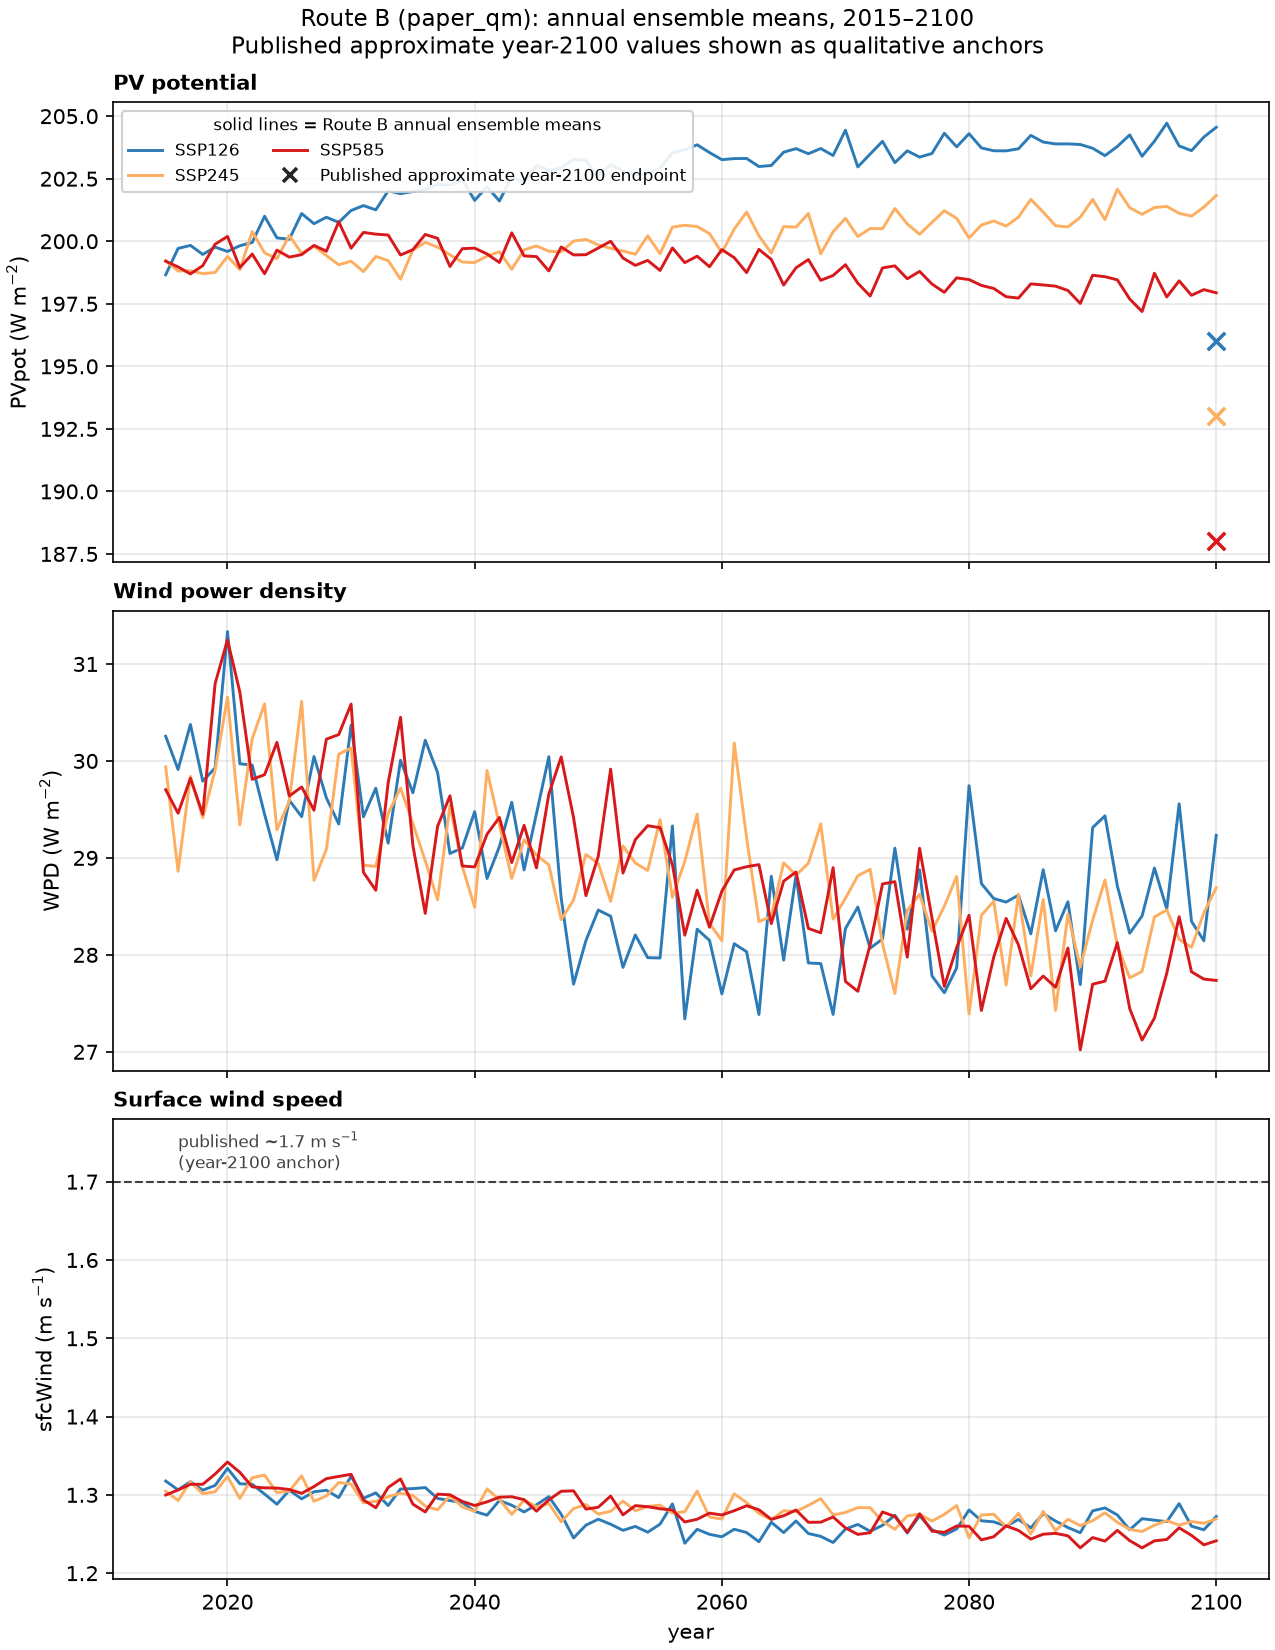
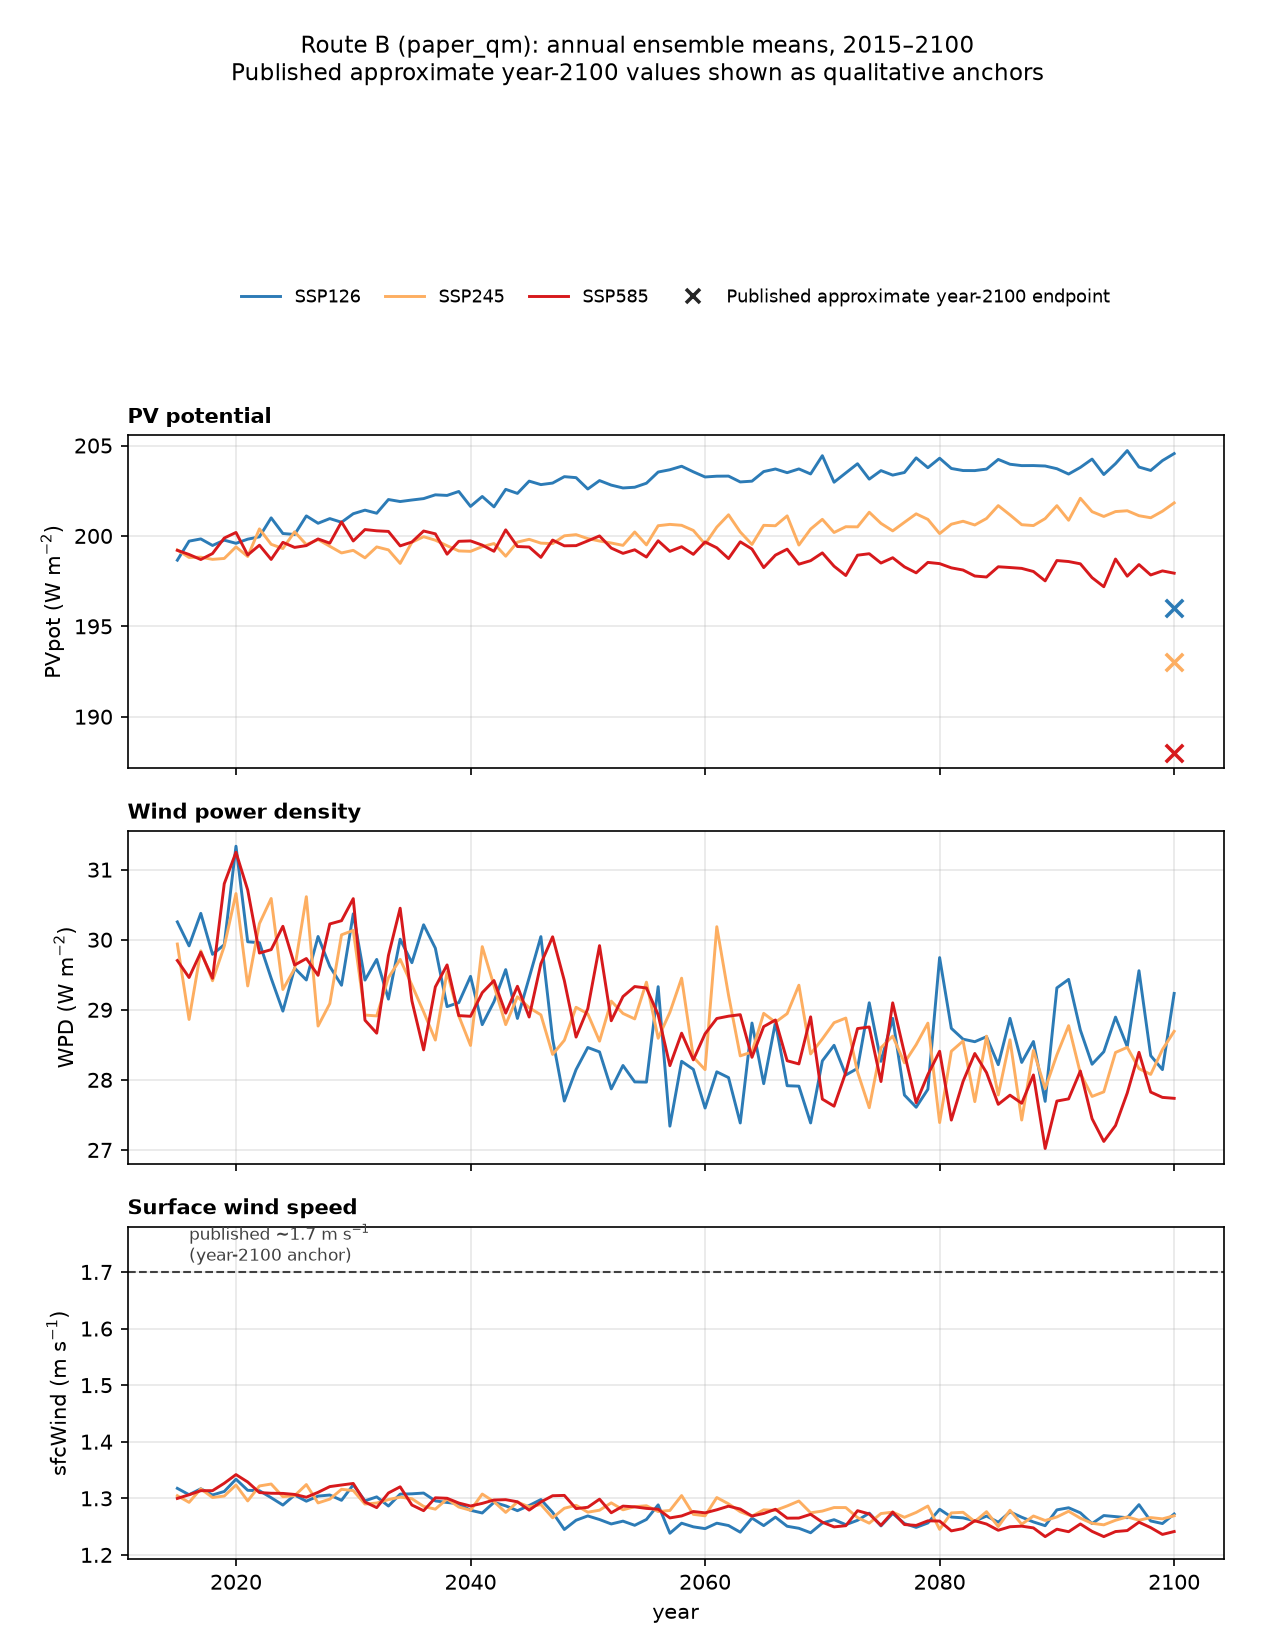
Move reproduction figure legend outside plot

diff --git a/scripts/08_reproduction_comparison/compare_with_paper.py b/scripts/08_reproduction_comparison/compare_with_paper.py
@@ -793,6 +793,7 @@ def plot_annual_series(df: pd.DataFrame) -> Path:
     matplotlib.use("Agg")
     import matplotlib.pyplot as plt
     from matplotlib.lines import Line2D
+    from matplotlib.gridspec import GridSpec
 
     FIGURES.mkdir(parents=True, exist_ok=True)
     colors = {"ssp126": "#2c7bb6", "ssp245": "#fdae61", "ssp585": "#d7191c"}
@@ -800,7 +801,19 @@ def plot_annual_series(df: pd.DataFrame) -> Path:
               ("wpd", "Wind power density", "WPD (W m$^{-2}$)", None),
               ("sfcWind_10m", "Surface wind speed", "sfcWind (m s$^{-1}$)", None))
 
-    fig, axes = plt.subplots(3, 1, figsize=(8.5, 11), sharex=True, constrained_layout=True)
+    # Dedicated top row for a figure-level legend (no in-axes legend, so nothing
+    # overlaps the curves).  Suptitle sits above ``top``; the legend row is gs[0].
+    fig = plt.figure(figsize=(8.5, 11))
+    gs = GridSpec(4, 1, figure=fig, height_ratios=[0.45, 1, 1, 1], hspace=0.22,
+                  left=0.10, right=0.96, top=0.865, bottom=0.055)
+    leg_ax = fig.add_subplot(gs[0, 0])
+    leg_ax.axis("off")
+    ax0 = fig.add_subplot(gs[1, 0])
+    axes = [ax0,
+            fig.add_subplot(gs[2, 0], sharex=ax0),
+            fig.add_subplot(gs[3, 0], sharex=ax0)]
+    for ax in axes[:-1]:
+        ax.tick_params(axis="x", labelbottom=False)
 
     for ax, (var, title, ylabel, endpoints) in zip(axes, panels):
         sfc_vals: list[np.ndarray] = []
@@ -835,8 +848,8 @@ def plot_annual_series(df: pd.DataFrame) -> Path:
         Line2D([], [], marker="x", color="0.15", lw=0, ms=7, markeredgewidth=1.7,
                label="Published approximate year-2100 endpoint"),
     ]
-    axes[0].legend(handles=handles, title="solid lines = Route B annual ensemble means",
-                   loc="upper left", fontsize=8, title_fontsize=8, framealpha=0.9, ncol=2)
+    leg_ax.legend(handles=handles, loc="center", ncol=4, fontsize=8.5,
+                  frameon=False, handlelength=2.2, columnspacing=1.4, borderaxespad=0)
 
     fig.suptitle("Route B (paper_qm): annual ensemble means, 2015–2100\n"
                  "Published approximate year-2100 values shown as qualitative anchors",
